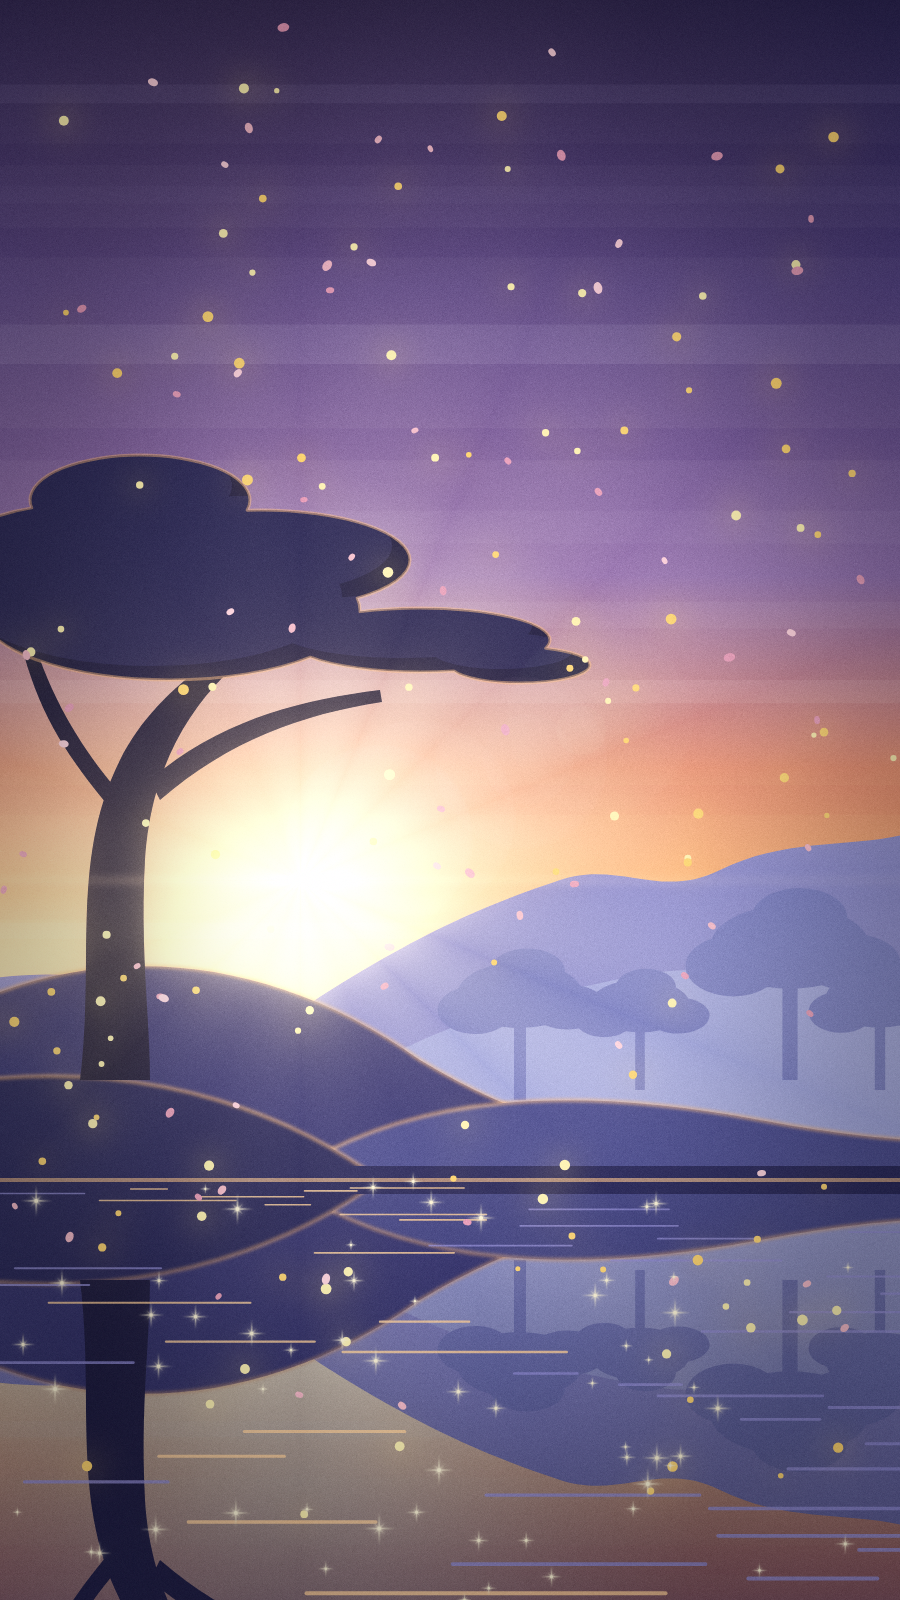
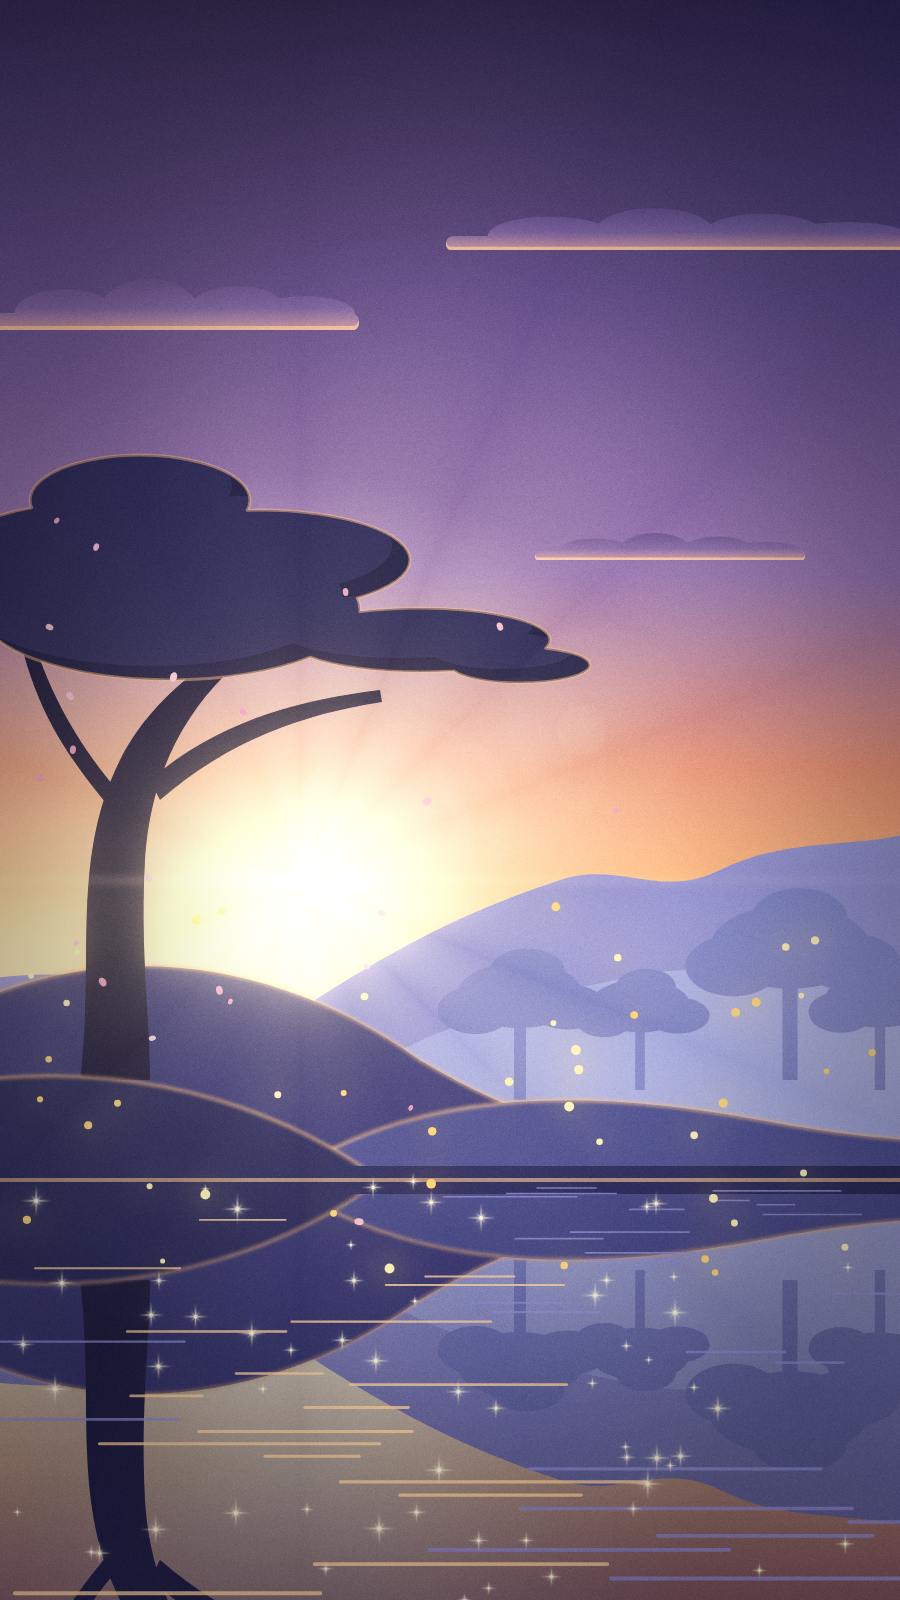
atelier 0.11.1: fewer critique false positives; dusk example and quick start reworked
- critique: reflections / shadows skip the figure-ground contrast check; floating ignores bases hidden by
  layers in front and line-like elements (foam, ripples); ambient judges the element's shadow half.
- dusk example: banded sky replaced by low clouds lit from below, fireflies kept low, petals near the
  tree, trunk foot behind the front hill.
- README quick start: warm glow above the ridge, darker range, a moon (the old one hid the glow).

diff --git a/examples/dusk.py b/examples/dusk.py
@@ -1,4 +1,4 @@
-# Flat vector dusk: banded sky, layered hills with rim light, lone tree, lake reflection, fireflies and petals.
+# Flat vector dusk: low lit clouds, layered hills with rim light, lone tree, lake reflection, fireflies and petals.
 import numpy as np
 from atelier import *
 
@@ -7,20 +7,22 @@ HZ = 1180                                     # shoreline (px)
 SUN = (300, 880)
 c = Canvas(W, H)
 
-# sky: purple -> peach, with flat horizontal bands
-c.fill(gradient([(0, "#2a2350"), (0.18, "#4b3f86"), (0.36, "#7a5fa8"), (0.48, "#e0795f"),
+# sky: purple -> peach, a few low stratus clouds lit from below by the sun
+c.layer(name="sky").fill(gradient([(0, "#2a2350"), (0.18, "#4b3f86"), (0.36, "#7a5fa8"), (0.48, "#e0795f"),
                  (0.56, "#ffb070"), (0.62, "#ffd9a0"), (0.74, "#c9a6d6")]))
-bands = c.layer(blend="soft_light", opacity=0.6)
 rng = np.random.default_rng(SEED)
-for y in np.cumsum(rng.uniform(40, 110, 14)):
-    t = rng.uniform(0.3, 1)
-    bands.rect(-20, y, W + 40, rng.uniform(14, 40), r=20,
-               fill="#ffffff" if rng.random() > 0.45 else "#20184a", opacity=0.35 * t)
+for i, (x, y, w, h) in enumerate([(-40, 330, 420, 34), (420, 250, 520, 28), (520, 560, 300, 18)]):
+    lobes = union(rect(x + w * .05, y - h * .5, w * .9, h * .5 + 1, r=h * .25),
+                  *[ellipse(x + w * f, y - h * .5, w * .12, h * k) for f, k in [(.25, .7), (.45, 1.0), (.66, .8), (.82, .5)]])
+    lobes = lobes & rect(x - w, y - 3 * h, 3 * w, 3 * h)
+    c.layer(name=f"clouds/{i}")
+    c.draw(lobes, fill=gradient([(0, "#4b3f86"), (.6, "#6a56a0"), (1, "#c98a9c")]).within(rect(x, y - 1.6 * h, w, 1.6 * h)))
+    c.draw(lobes - lobes.move(0, -max(2.5, h * .12)), fill="#ffc29a", opacity=.9)        # underside lit by the low sun
 c.layer(blend="screen").fill("#ffd59a", mask=disc(SUN[0] / W, SUN[1] / H, 0.08, soft=0.35))
 c.layer(blend="screen", opacity=0.5).fill("#ff9d6e", mask=disc(SUN[0] / W, SUN[1] / H, 0.25, soft=0.8))
 
 # distant mountains, hazy lavender
-far = c.layer()
+far = c.layer(name="far")
 far.path("M -20 980 C 100 960 200 1000 300 1010 C 420 930 500 900 560 880 C 620 860 660 900 720 870 C 790 835 860 850 920 830 L 920 1200 L -20 1200 Z",
          fill="#8f8fcf")
 far.path("M -20 1080 C 150 1050 280 1090 380 1060 C 480 1010 560 990 640 975 C 720 960 820 985 920 960 L 920 1200 L -20 1200 Z", fill="#a3a8de")
@@ -32,7 +34,7 @@ def blob_tree(L, x, y, s, col):
                  ellipse(x + s * 0.32, y - s * 0.62, s * 0.26, s * 0.15), ellipse(x + s * 0.05, y - s * 0.86, s * 0.25, s * 0.15)),
            fill=col)
 
-trees = c.layer()
+trees = c.layer(name="trees")
 for x, y, s in [(520, 1100, 150), (640, 1090, 120), (790, 1080, 190), (880, 1090, 130)]:
     blob_tree(trees, x, y, s, "#7d82c4")
 
@@ -40,15 +42,15 @@ for x, y, s in [(520, 1100, 150), (640, 1090, 120), (790, 1080, 190), (880, 1090
 hills = [("M -20 1000 C 120 940 280 960 420 1060 C 520 1120 600 1140 700 1150 L 700 1220 L -20 1220 Z", "#3b3a78"),
          ("M 330 1150 C 450 1090 600 1090 760 1120 C 840 1135 900 1140 920 1140 L 920 1220 L 330 1220 Z", "#4d4f92"),
          ("M -20 1080 C 160 1060 300 1120 380 1180 L -20 1200 Z", "#2a2a5e")]
-for d, col in hills:
-    L = c.layer()
+for i, (d, col) in enumerate(hills):
+    L = c.layer(name=f"hill/{i}")
     s = svg(d)
     L.draw(s, fill=col)
     L.draw(s.outline(4), fill="#ffb87a", opacity=0.55, feather=1.5)
-c.layer().rect(0, HZ - 14, W, 14, fill="#2a2a5e")
+c.layer(name="shore").rect(0, HZ - 14, W, 14, fill="#2a2a5e")
 
 # lone tree: dark trunk + layered canopy, rim-lit on the sun side
-tree = c.layer()
+tree = c.layer(name="tree")
 trunk = svg("M 80 1080 C 95 960 70 860 120 760 C 140 720 170 690 210 660 L 225 675 C 180 720 150 780 145 860 "
             "C 140 950 150 1020 150 1080 Z")
 branch = svg("M 150 780 C 220 720 300 700 380 690 L 382 702 C 300 715 230 740 160 800 Z") | \
@@ -59,6 +61,7 @@ canopy = union(ellipse(170, 610, 190, 70), ellipse(70, 560, 120, 55), ellipse(26
 tree.draw(canopy, fill="#1f1d44")
 tree.draw(canopy & canopy.move(-18, -14), fill="#2b2958")
 tree.draw(canopy.outline(3), fill="#f6b27c", opacity=0.5)
+tree.below("hill/2")                                  # the trunk's foot sinks behind the front hill
 
 # lake: mirrored sky/land, darkened, with flat ripple strokes
 img = c.flatten()
@@ -68,11 +71,11 @@ src = img[hz - h:hz][::-1].copy()
 fade = np.linspace(0.85, 0.45, h)[:, None, None]
 src[..., :3] = src[..., :3] * fade + np.array([0.12, 0.12, 0.3]) * (1 - fade)
 src[..., 3] = 1
-lake = c.layer()
+lake = c.layer(name="lake")
 buf = np.zeros_like(img)
 buf[hz:] = src
 lake.rgba = buf
-rip = c.layer(opacity=0.8)
+rip = c.layer(name="ripples", opacity=0.8)
 h = H - HZ
 for k in range(45):
     y = HZ + 8 + (k / 45) ** 1.6 * h
@@ -83,10 +86,10 @@ for k in range(45):
 c.layer().rect(0, HZ - 2, W, 4, fill="#ffc38a", opacity=0.6)
 
 # fireflies and falling petals
-ff = c.layer()
-ff.scatter("dot", 120, region=band(0.05, 0.95), size=(5, 11), color=["#fff1b0", "#ffd36e"], seed=SEED + 1)
+ff = c.layer(name="fireflies")                       # low over the grass and the water, not up in the sky
+ff.scatter("dot", 45, region=band(0.56, 0.8), size=(5, 10), color=["#fff1b0", "#ffd36e"], seed=SEED + 1)
 ff.apply(glow(18, 1.6, "#ffd36e"))
-c.layer().scatter("petal", 70, region=band(0.0, 0.9), size=(14, 24), color=["#f5b8c8", "#ffd0dc", "#e89ab8"],
+c.layer(name="petals").scatter("petal", 22, region=zone(0, .3, .7, .78), size=(12, 20), color=["#f5b8c8", "#ffd0dc", "#e89ab8"],
                   rot=(0, 360), seed=SEED + 2)
 
 c.layer().sparkles(60, region=zone(0, HZ / H, 1, 1) * disc(SUN[0] / W, 0.85, 0.25, soft=0.6), size=(6, 18), seed=SEED + 5)

diff --git a/atelier/inspect.py b/atelier/inspect.py
@@ -994,7 +994,14 @@ def _floating(els, H, W, s, cw, ch, Lm):
         cols = np.flatnonzero(m.any(0))
         if len(cols) < 6 or len(cols) > 0.8 * W:
             continue
+        if m.sum() / len(cols) < 4 * s:
+            continue                                               # lines / strokes (foam, ripples) do not rest
         bot = H - 1 - np.argmax(m[::-1, cols], 0)                 # lowest pixel per column
+        cover = np.zeros(len(cols), F32)                           # base hidden by layers in front (a cliff, a hull)
+        for o in els[els.index(E) + 1:]:
+            cover = np.maximum(cover, o["a"][np.clip(bot, 0, H - 1), cols])
+        if (cover > 0.5).mean() > 0.3:
+            continue
         base = bot >= bot.max() - max(1, round(s))                  # the flat base (round bottoms, eaves lift off)
         if base.sum() < max(6, 0.25 * len(cols)):
             continue
@@ -1327,8 +1334,8 @@ def critique(img, path=None, width=1024, max_align=6, focus=None) -> dict:
             above.append((g, np.clip(a, 0, 1)))
         # ---- figure-ground contrast
         for e in els:
-            if e["vis"] < 0.5:
-                continue
+            if e["vis"] < 0.5 or any(t in e["name"].lower() for t in ("reflection", "shadow")):
+                continue                                       # reflections / shadows are meant to sit low-contrast
             inside = (e["a"] > 0.5).astype(np.uint8)
             if inside.sum() < 30:
                 continue
@@ -1442,7 +1449,9 @@ def critique(img, path=None, width=1024, max_align=6, focus=None) -> dict:
                         continue
                     if float(np.median(Lm[core])) > 0.8:
                         continue                                       # a light source has its own colour
-                    ec = np.median(lab[core][:, 1:], 0)
+                    lc = Lm[core]
+                    sh = lc <= np.median(lc)                           # shadow half: where ambient light shows
+                    ec = np.median(lab[core][sh][:, 1:], 0)
                     proj = float(ec @ amb) / na
                     if proj < 0.2 * na and float(np.hypot(*(ec - amb))) > 0.04:
                         add("mid", "ambient", f"'{e['name']}' ignores the scene light: its colour cast ({ec[0]:+.2f},{ec[1]:+.2f}) "

diff --git a/atelier/__init__.py b/atelier/__init__.py
@@ -15,6 +15,6 @@ from .figure import *  # noqa: F401,F403
 from .anime import *  # noqa: F401,F403
 from .inspect import *  # noqa: F401,F403
 
-__version__ = "0.11.0"
+__version__ = "0.11.1"
 _MODULES = ("core", "field", "vector", "fx", "brush", "sdf", "pt", "stylize", "terrain", "nature", "figure", "anime", "inspect")
 __all__ = list(dict.fromkeys(n for m in _MODULES for n in getattr(_sys.modules[f"{__name__}.{m}"], "__all__", [])))

diff --git a/README.md b/README.md
@@ -80,9 +80,10 @@ or re-upload the zip on Claude.ai.
 from atelier import *
 
 c = Canvas(1600, 1000)
-c.fill(gradient([(0, "#0b1026"), (0.6, "#3b2a5a"), (1, "#f4a259")]))
-c.layer(blend="screen").fill("white", mask=stars(70, seed=3) * top(0.6, soft=0.2))
-c.layer().fill_below(ridged(2.2, seed=1).ridge_line(y=0.7, amp=0.15), fbm(6).ramp(["#1b1b2f", "#2e2e4d"]))
+c.fill(gradient([(0, "#0b1026"), (0.45, "#3b2a5a"), (0.68, "#f4a259")]))
+c.layer(blend="screen").fill("white", mask=stars(70, seed=3) * top(0.5, soft=0.2))
+c.circle(1180, 250, 44, fill="#fff4d6")
+c.layer().fill_below(ridged(2.2, seed=1).ridge_line(y=0.74, amp=0.15), fbm(6).ramp(["#0c0c1a", "#1f1c34"]))
 c.apply(bloom(0.8, 12), grain(0.03), vignette(0.3))
 c.save("night.png")
 ```
